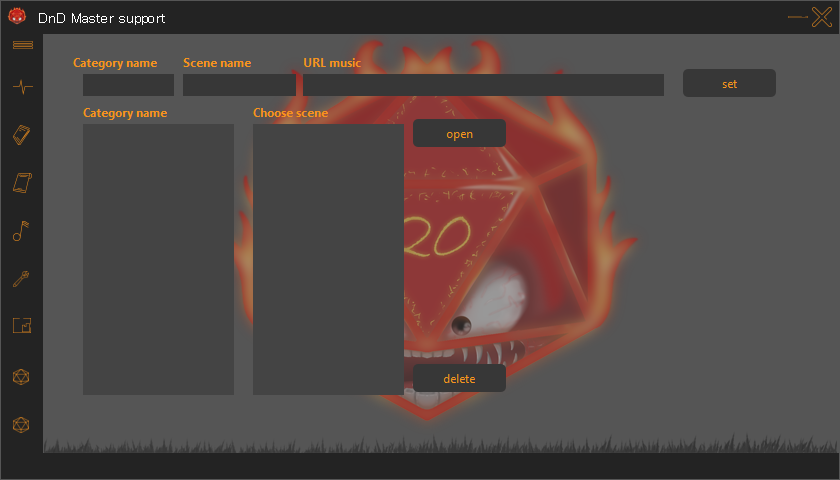
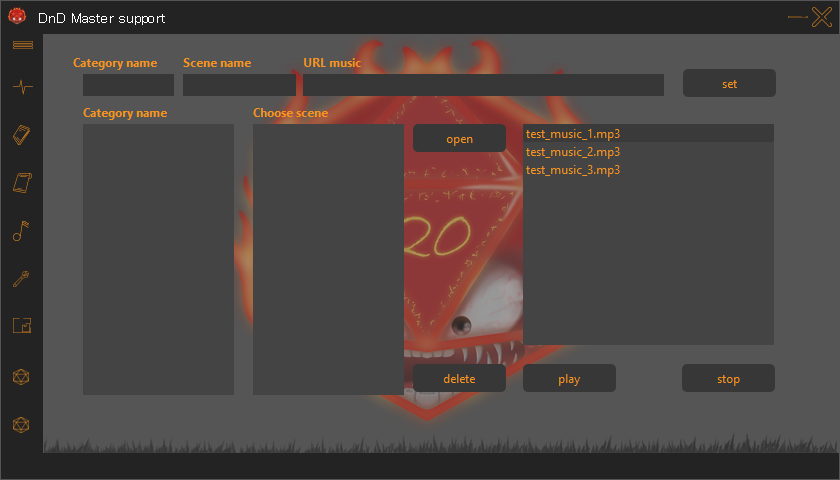
Add check folders. Readme update

Changed region(s): [[0.4952, 0.25, 0.9286, 0.7188], [0.619, 0.75, 0.7429, 0.8438], [0.8048, 0.75, 0.9286, 0.8438]]

diff --git a/main.py b/main.py
@@ -228,8 +228,17 @@ try:
             self.store_type_and_qualification_vendor()
             self.options_store_box_update()
             self.npc_box_update()
+            self.check_folders()
             self.collect_img()
             self.collect_music()
+
+        @logger.catch
+        def check_folders(self):
+            if not os.path.exists(os.getcwd() + "\music"):
+                os.mkdir(os.getcwd() + "\music")
+
+            if not os.path.exists(os.getcwd() + "\images"):
+                os.mkdir(os.getcwd() + "\images")
 
         @logger.catch
         def view_character_stats(self):

diff --git a/README.md b/README.md
@@ -218,7 +218,17 @@ ___
 > Мною, как мастером, это используется следующим образом. Здесь я включаю музыку во время игры.
 > В категориях я обычно вписываю локацию, а в сцену конкретное место, закрепляя за ними ссылки на youtube.
 > Вы можете использовать ссылки на любые ресурсы, но youtube открывает музыку сразу, а за счёт
-> небольшой задержки между открытиями окон, можно наслаивать друг на друга несколько треков
+> небольшой задержки между открытиями окон, можно наслаивать друг на друга несколько треков  
+  
+В правой части окна находится список локальной музыки  
+Чтобы в списке отображалась музыка, вам требуется предварительно поместить её в папку *music*  
+Музыка должна быть в формате: mp3, ogg  
+Что бы прослушать музыку  
+Выберите её из списка и нажмите play(двойной клик по музыке так же её запустит)  
+Кнопка stop остановит запись
+>Настоятельно рекомендуется использовать короткие записи.  
+>Мною, как мастером, это используется следующим образом.  
+> Здесь я включаю звуки, по типу звук открывшейся двери или звук разбитого бокала
 ___
 <a id="rules"></a>
 ## Правила ##  
@@ -252,9 +262,14 @@ ___
 Кнопкой *Reduce token* уменьшить  
 Кнопкой *Increase token* увеличить  
 **Изменение размеров токенов сбрасывает их позицию, так же как и открытие нового изображения!**  
+А так же перемещать токены при помощи уменьшенной версии окна просмотра  
+*Которое появится при открытии изображения*  
+Что бы увеличить или уменьшить изображение в маленьком окне просмотра  
+воспользуйтесь кнопками + и -
+![img.small_view](read_me_img/img_viewer.small_view_window.png)
   
-Вы можете перетаскивать токены!  
-![img.img_viewer.token](read_me_img/img_viewer.view_window.token1.png)  
+Вы можете перетаскивать токены, как в большом, так и в маленьком окне!  
+![img.img_viewer.example](read_me_img/img_viewer.example.token.png)  
 ___
 <a id="generate_store"></a>
 ## Генератор магазина ##  
